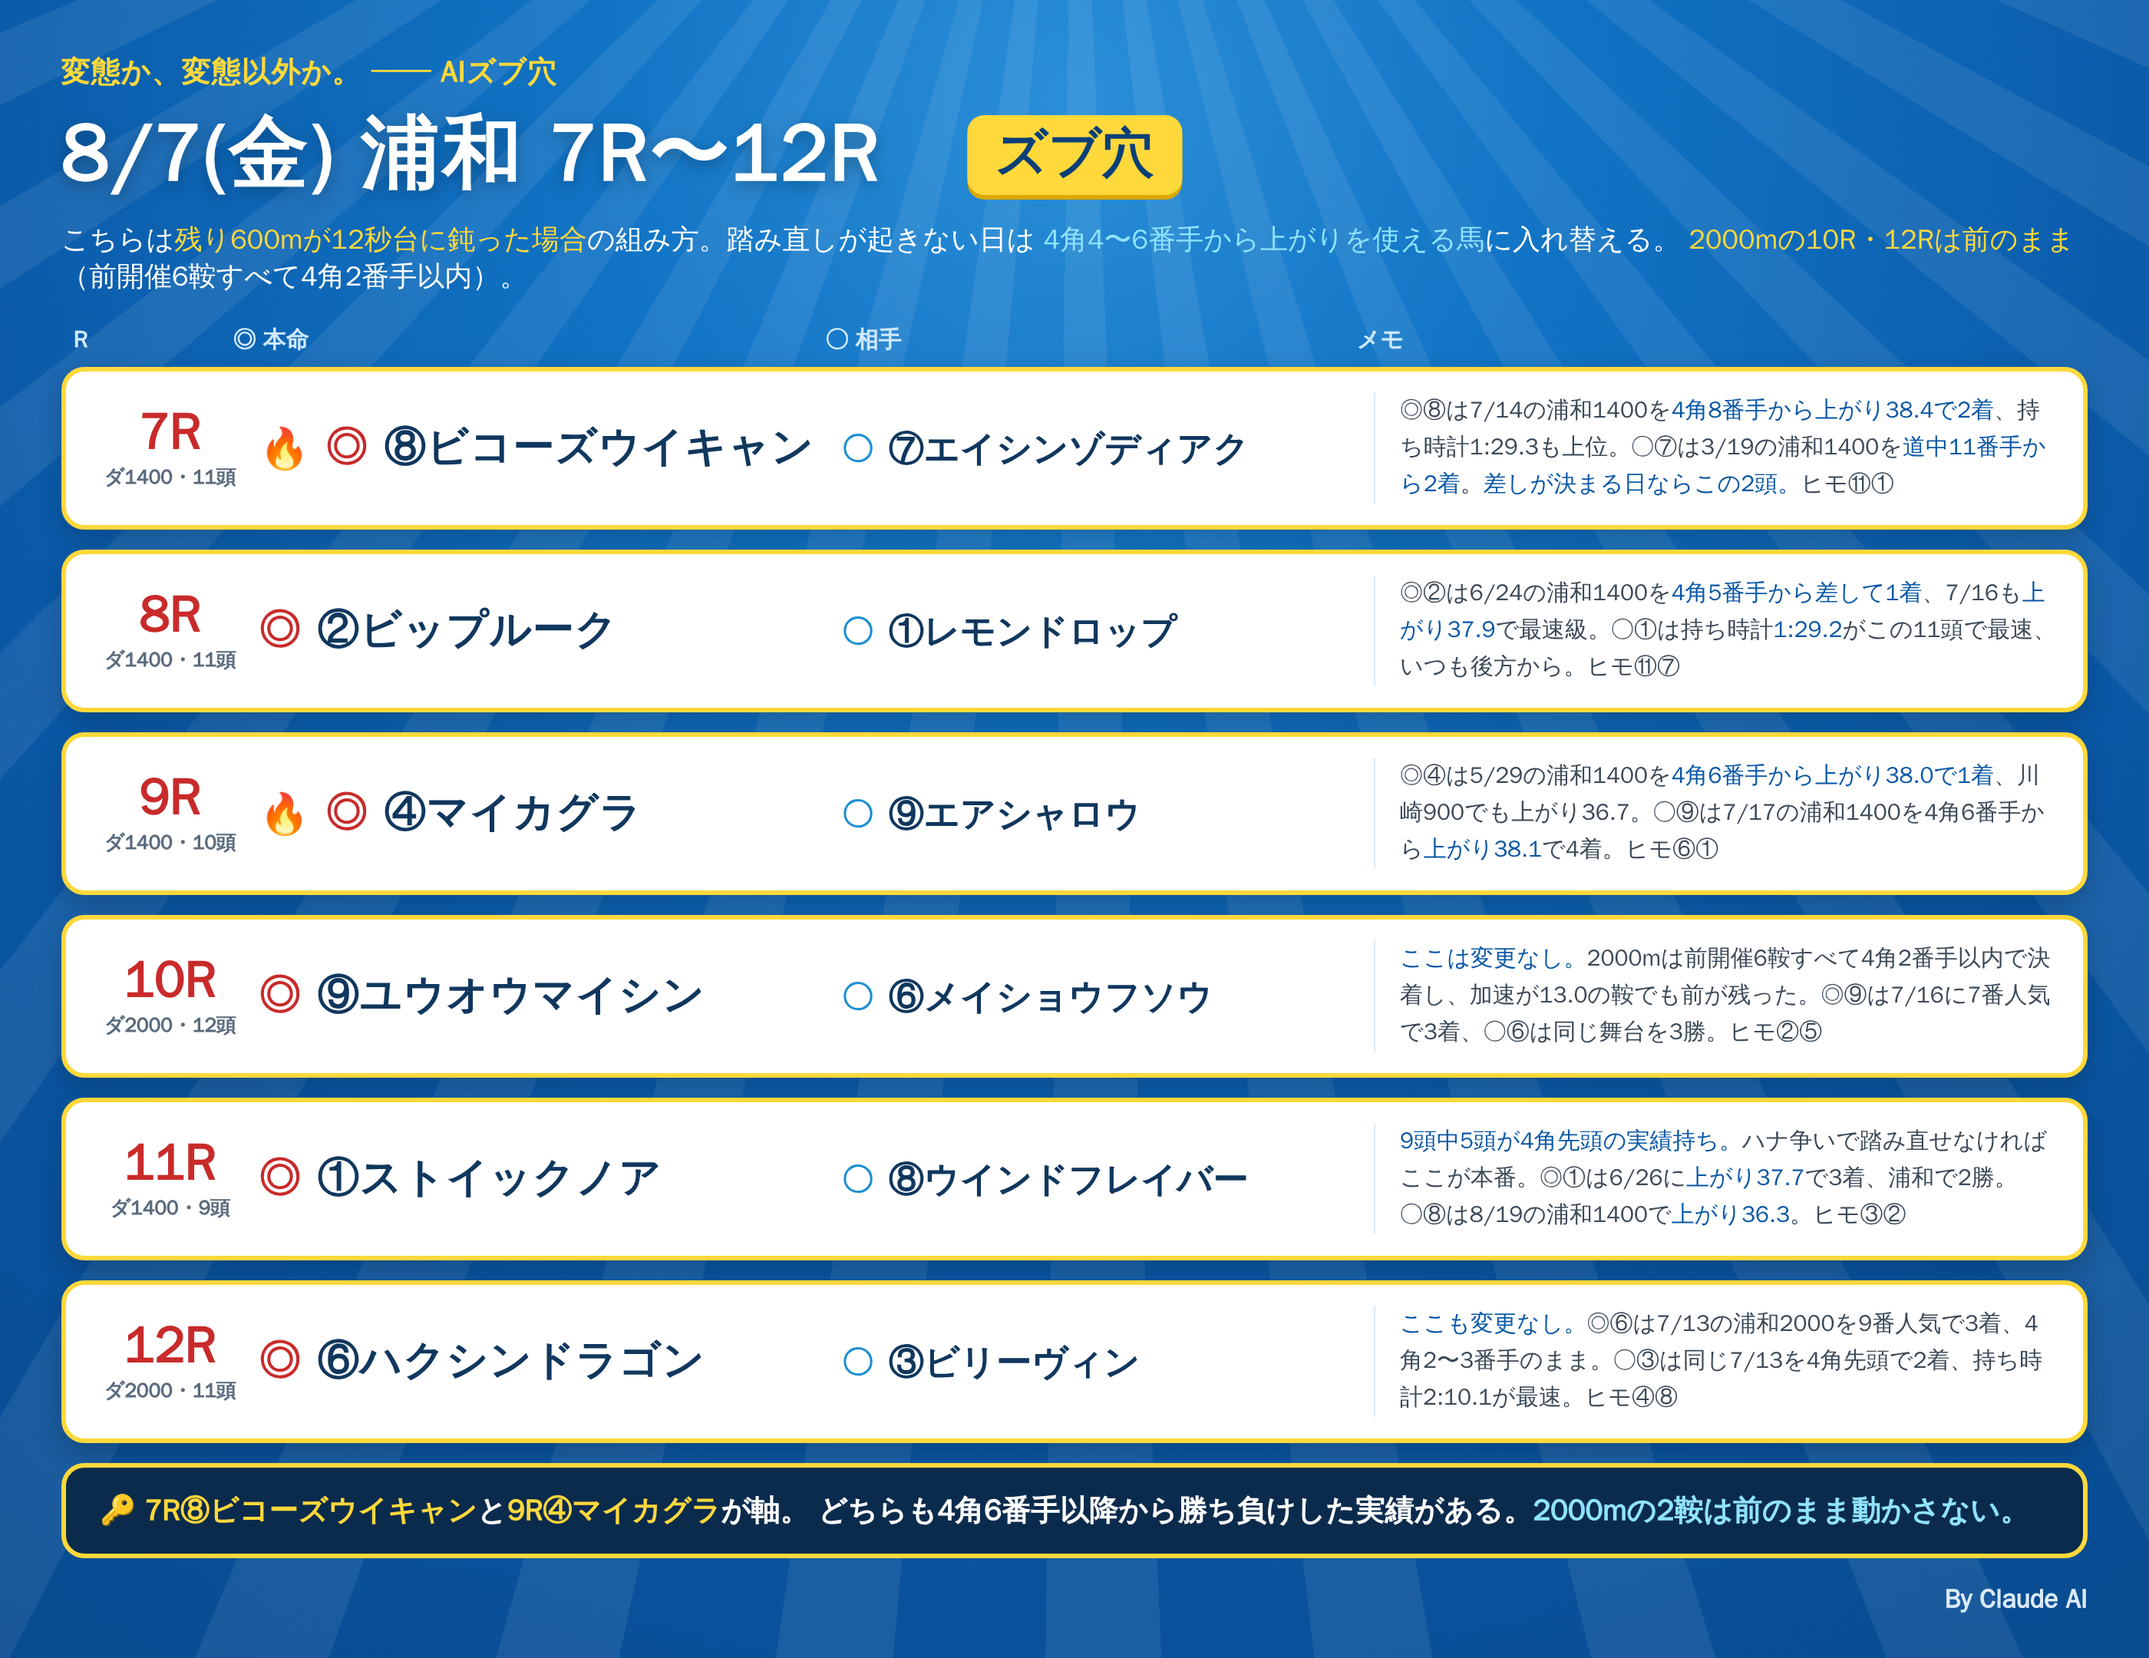
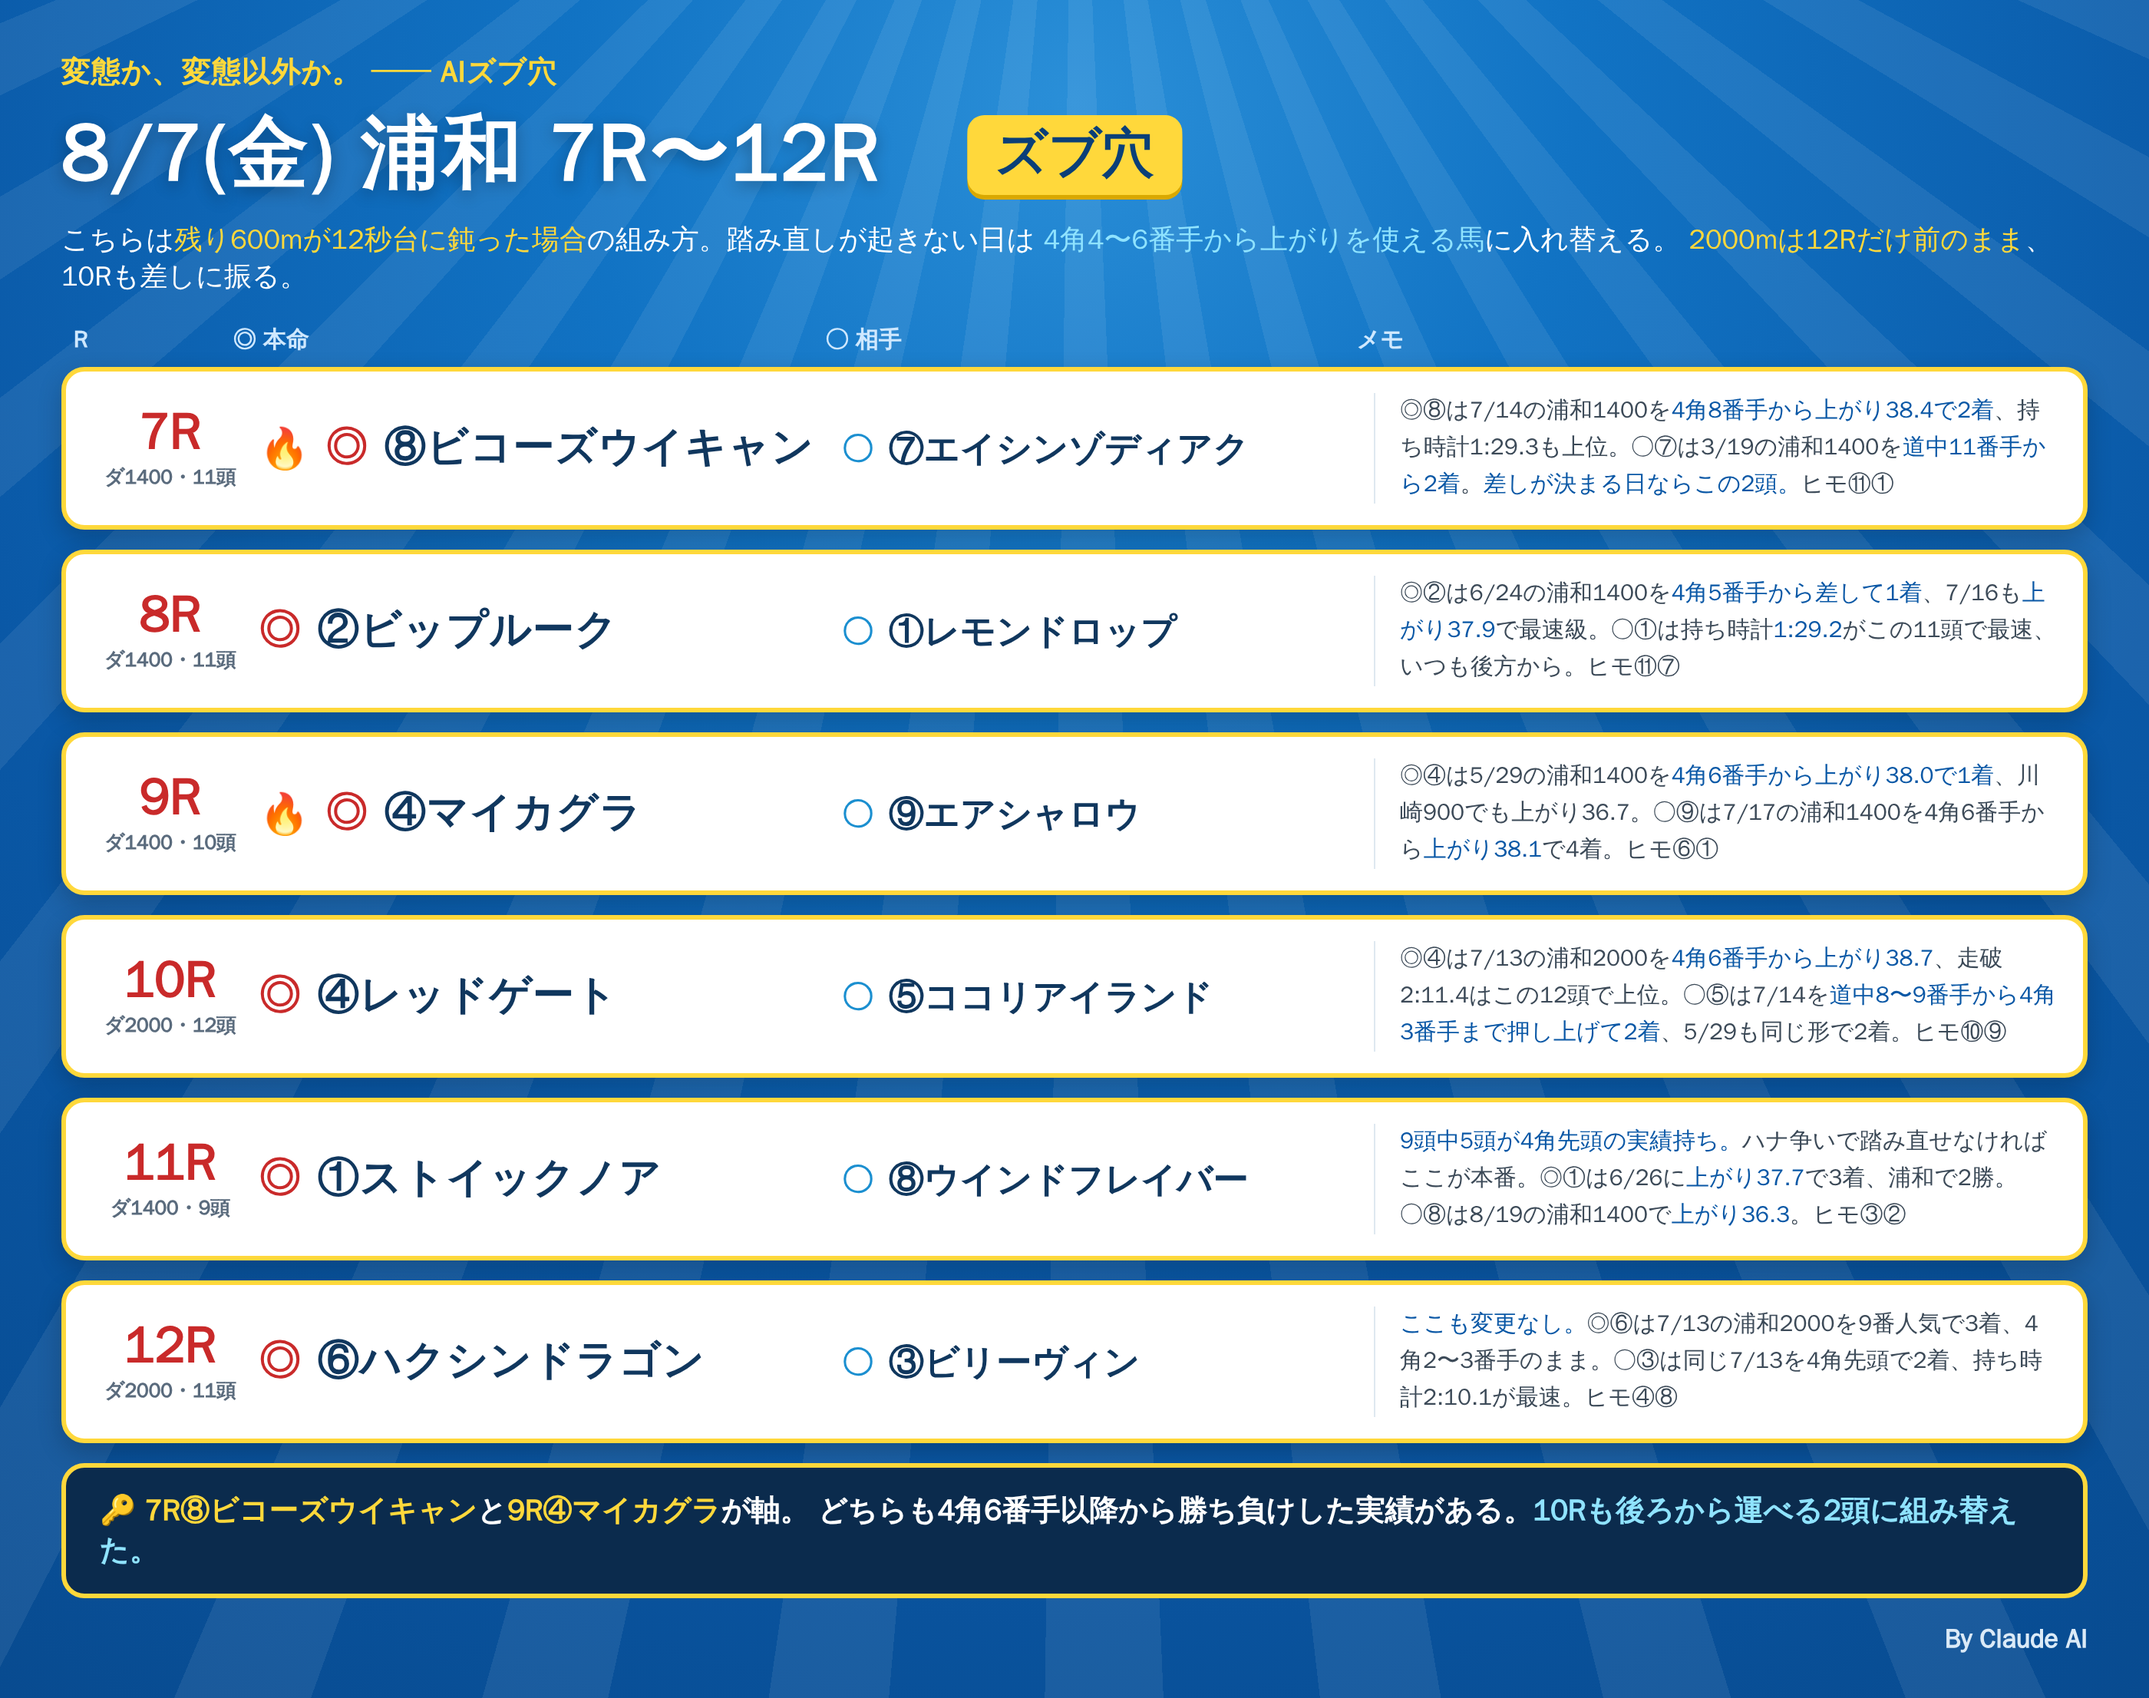
notes: switch 10R to closers in the slow-branch card

Changed region(s): [[0.0311, 0.031, 0.9943, 0.9926], [0.2796, 0.062, 0.3418, 0.0931]]

diff --git a/notes/live/2026-08-07/urawa_7_12_slow.html b/notes/live/2026-08-07/urawa_7_12_slow.html
@@ -51,7 +51,7 @@
   </div>
   <div class="lead">こちらは<span class="y">残り600mが12秒台に鈍った場合</span>の組み方。踏み直しが起きない日は
   <span class="c">4角4〜6番手から上がりを使える馬</span>に入れ替える。
-  <span class="y">2000mの10R・12Rは前のまま</span>（前開催6鞍すべて4角2番手以内）。</div>
+  <span class="y">2000mは12Rだけ前のまま</span>、10Rも差しに振る。</div>
   <div class="cols"><div class="cR">R</div><div class="cH">◎ 本命</div><div class="cA">○ 相手</div><div class="cM">メモ</div></div>
 
   <div class="row">
@@ -77,9 +77,9 @@
 
   <div class="row">
     <div class="rN"><div class="n">10R</div><div class="d">ダ2000・12頭</div></div>
-    <div class="hm"><span class="mk">◎</span><span class="nm">⑨ユウオウマイシン</span></div>
-    <div class="at"><span class="mk2">○</span><span class="nm2">⑥メイショウフソウ</span></div>
-    <div class="memo"><b>ここは変更なし。</b>2000mは前開催6鞍すべて4角2番手以内で決着し、加速が13.0の鞍でも前が残った。◎⑨は7/16に7番人気で3着、○⑥は同じ舞台を3勝。ヒモ②⑤</div>
+    <div class="hm"><span class="mk">◎</span><span class="nm">④レッドゲート</span></div>
+    <div class="at"><span class="mk2">○</span><span class="nm2">⑤ココリアイランド</span></div>
+    <div class="memo">◎④は7/13の浦和2000を<b>4角6番手から上がり38.7</b>、走破2:11.4はこの12頭で上位。○⑤は7/14を<b>道中8〜9番手から4角3番手まで押し上げて2着</b>、5/29も同じ形で2着。ヒモ⑩⑨</div>
   </div>
 
   <div class="row">
@@ -97,7 +97,7 @@
   </div>
 
   <div class="foot">🔑 <span class="y">7R⑧ビコーズウイキャン</span>と<span class="y">9R④マイカグラ</span>が軸。
-  どちらも<b>4角6番手以降から勝ち負けした実績</b>がある。<span class="c">2000mの2鞍は前のまま動かさない。</span></div>
+  どちらも<b>4角6番手以降から勝ち負けした実績</b>がある。<span class="c">10Rも後ろから運べる2頭に組み替えた。</span></div>
   <div class="sig">By Claude AI</div>
 </div></div>
 </body></html>
